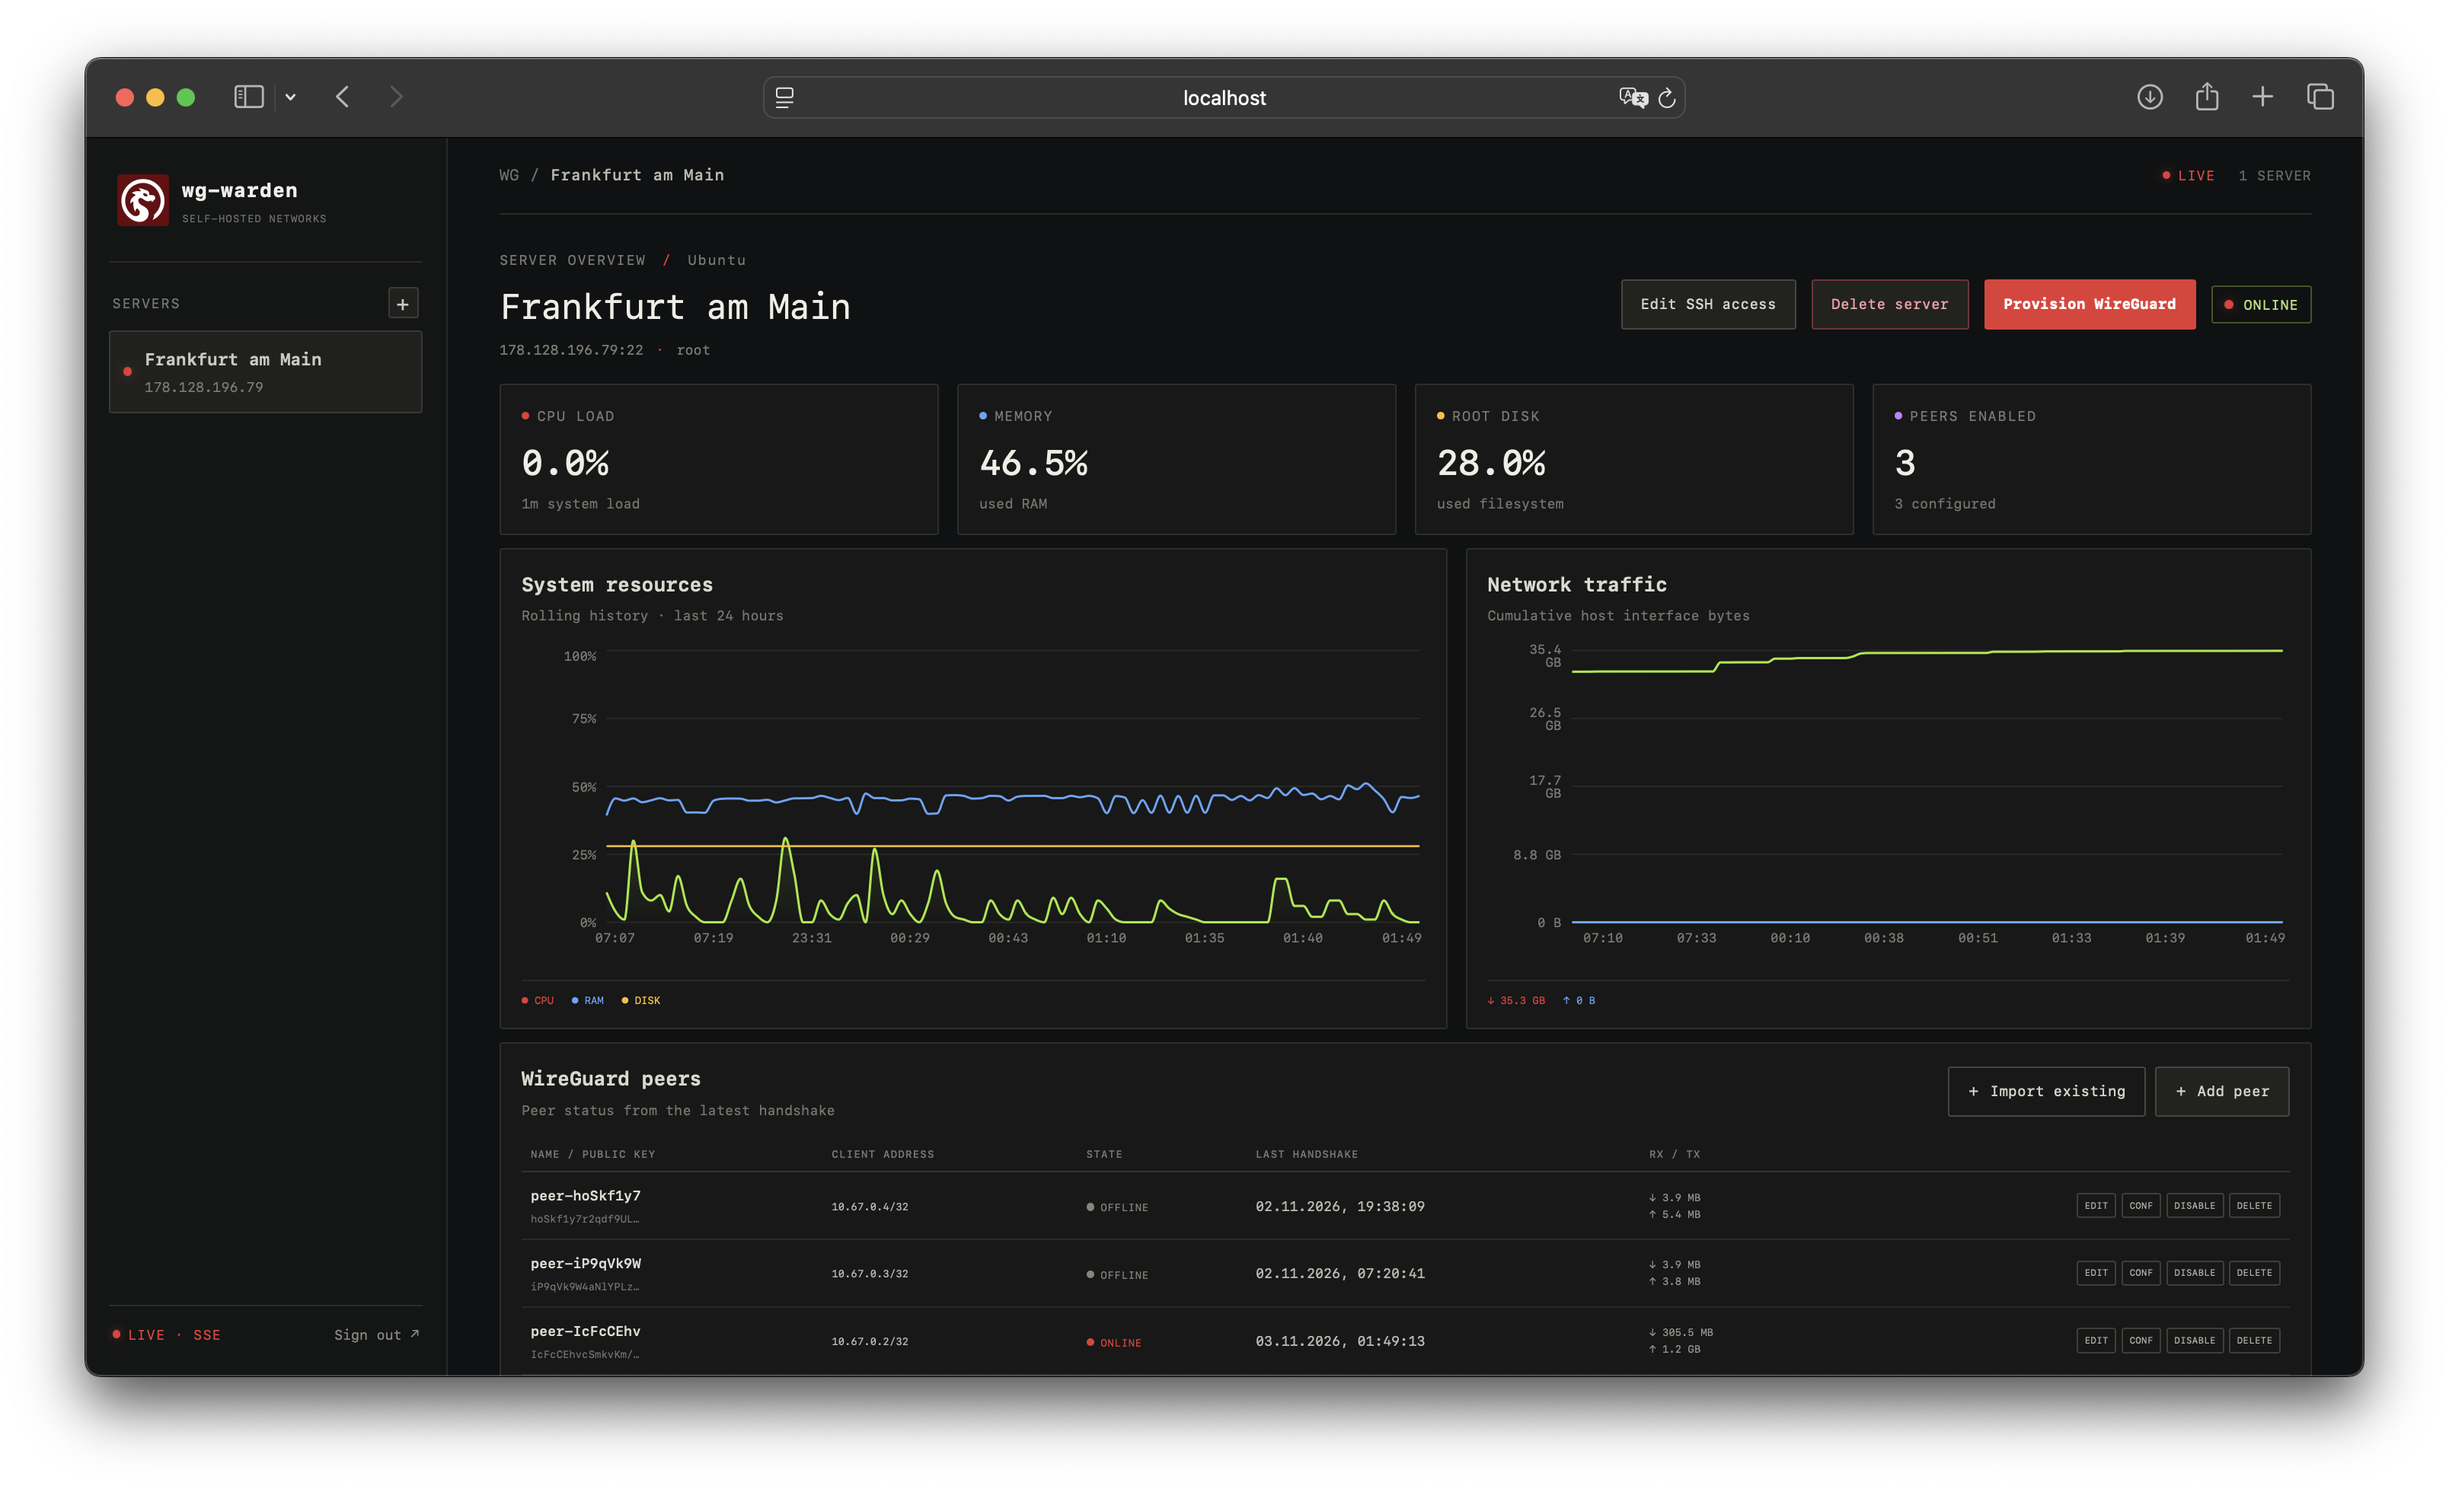
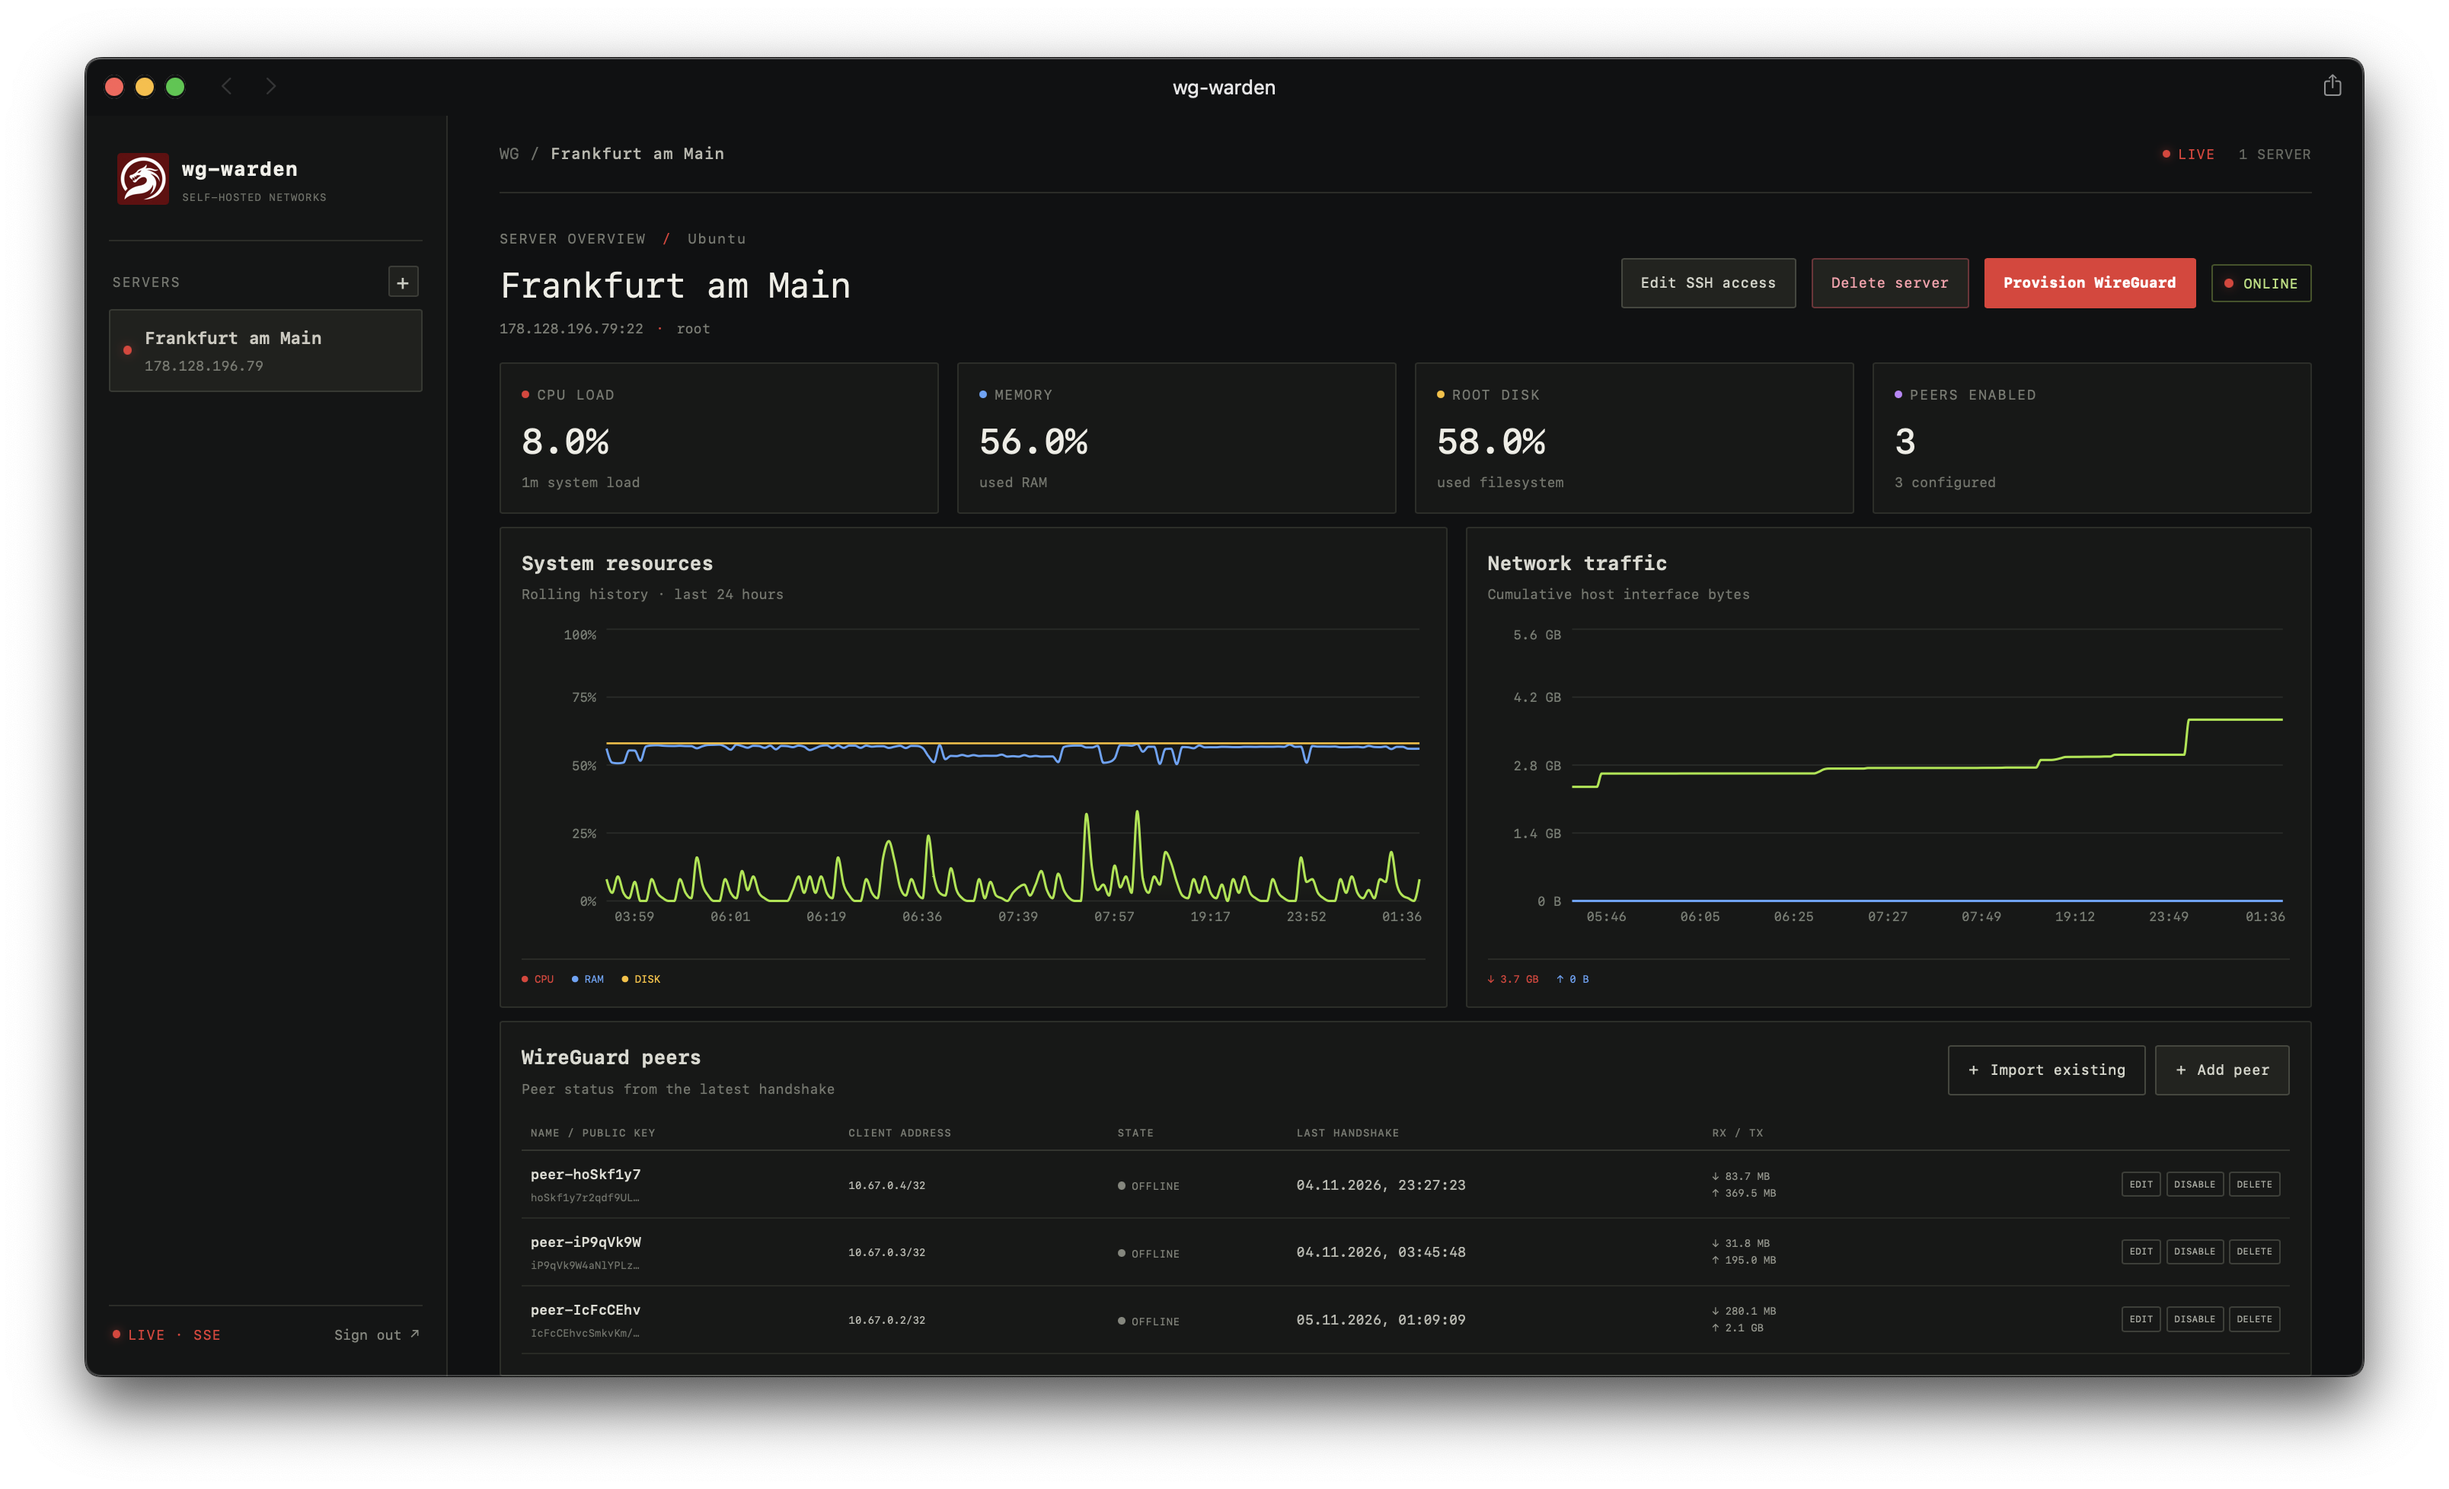
readme changes

diff --git a/README.md b/README.md
@@ -75,7 +75,7 @@ Java, Maven, Node.js и PostgreSQL отдельно ставить не нужн
 ### Установка
 
 ```bash
-git clone https://github.com/egorparahovnik/wg-warden.git
+git clone https://github.com/kage-xql/wg-warden.git
 cd wg-warden
 ./install.sh
 ```
@@ -176,7 +176,7 @@ PasswordAuthentication no
 
 ```bash
 ssh wgwarden@<IP>
-git clone https://github.com/egorparahovnik/wg-warden.git
+git clone https://github.com/kage-xql/wg-warden.git
 cd wg-warden
 ./deploy/vps-install.sh
 ```
